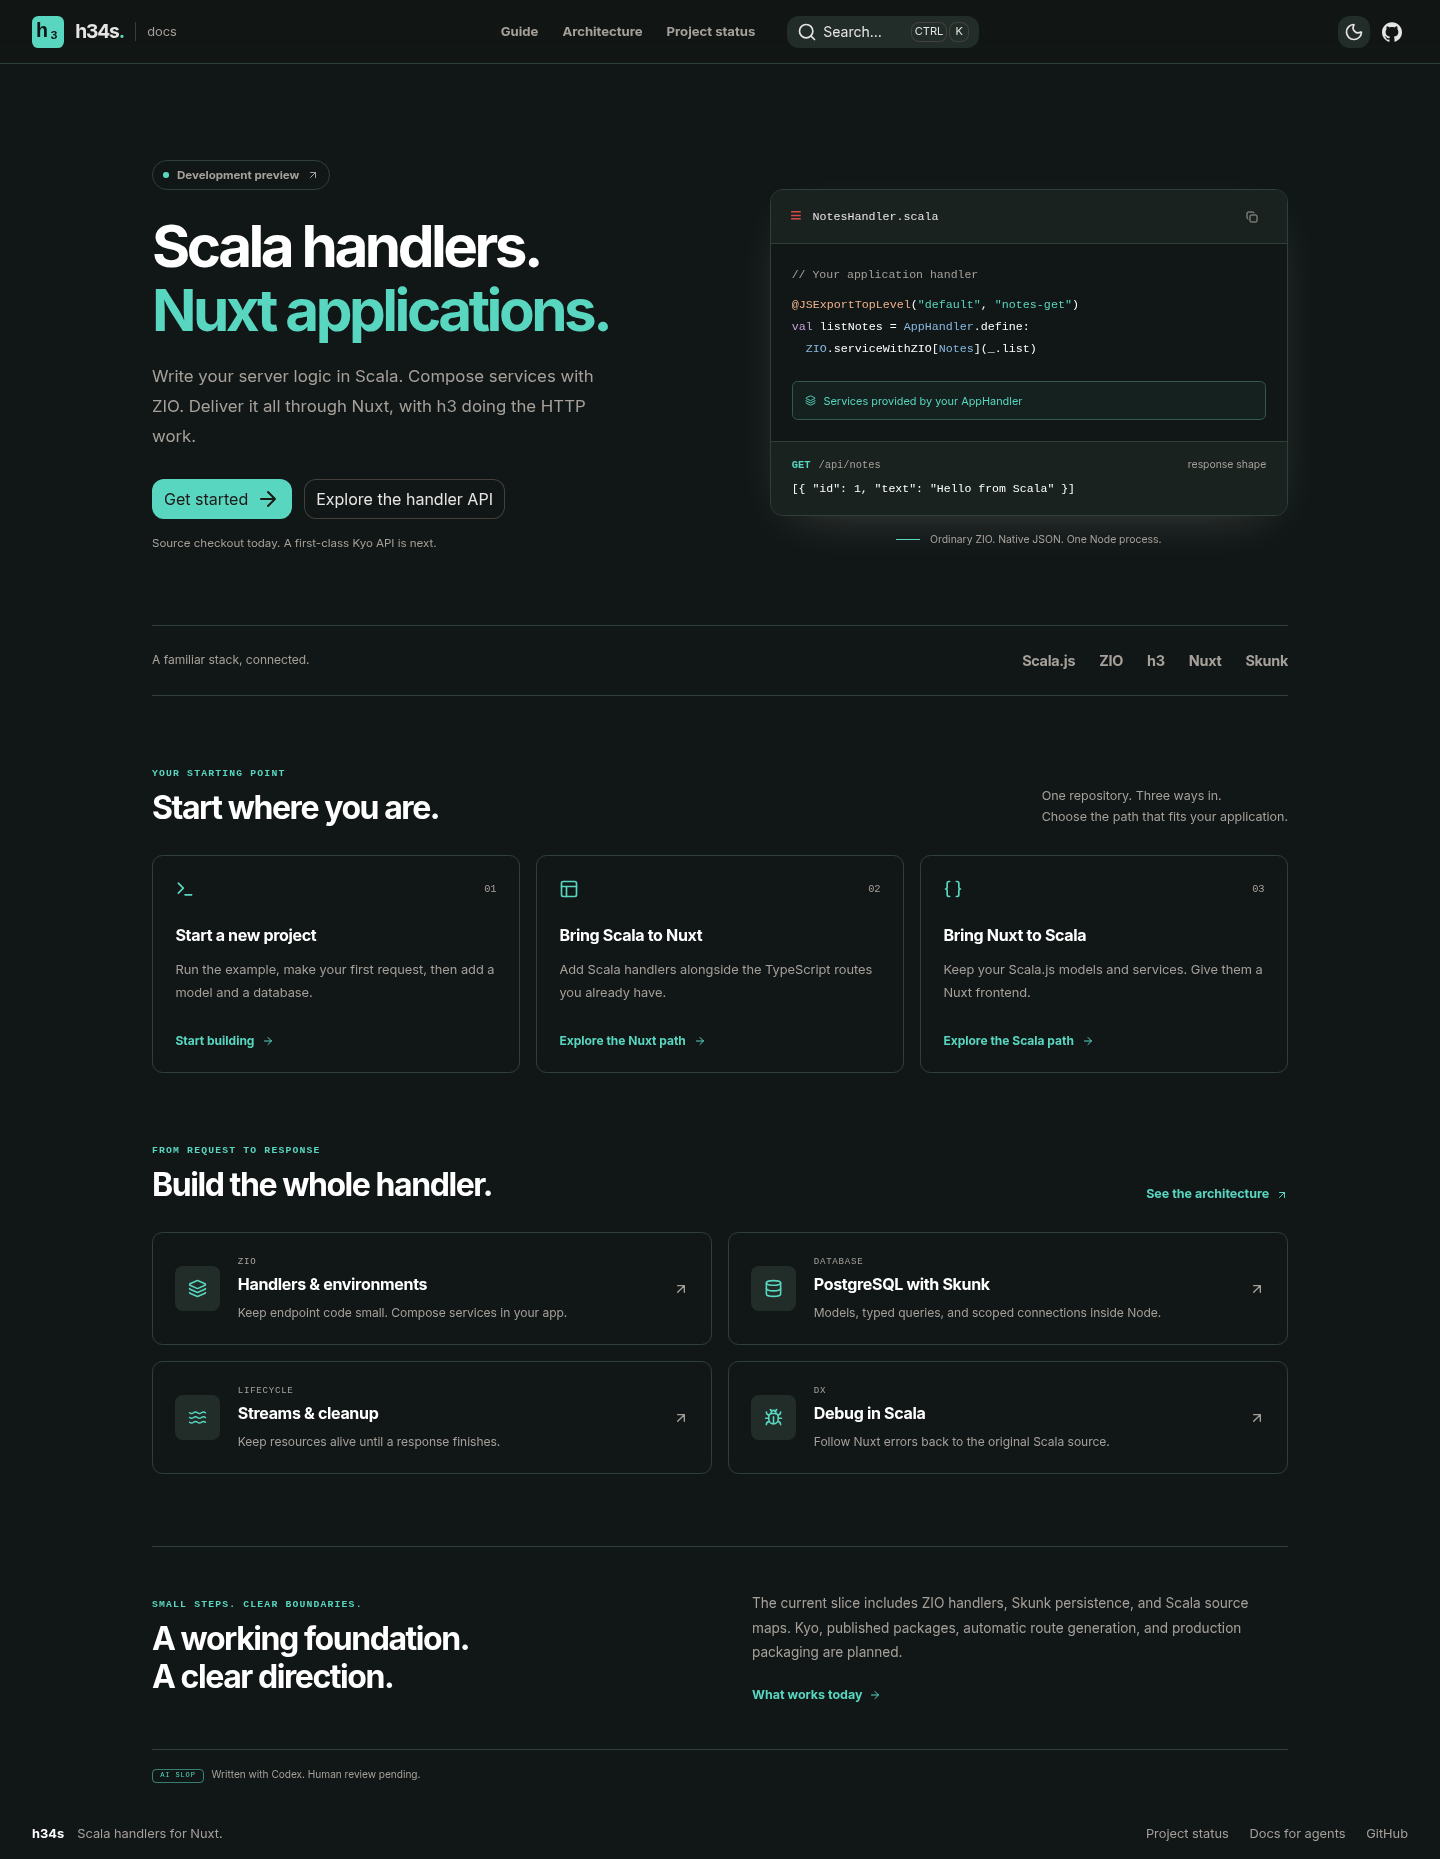
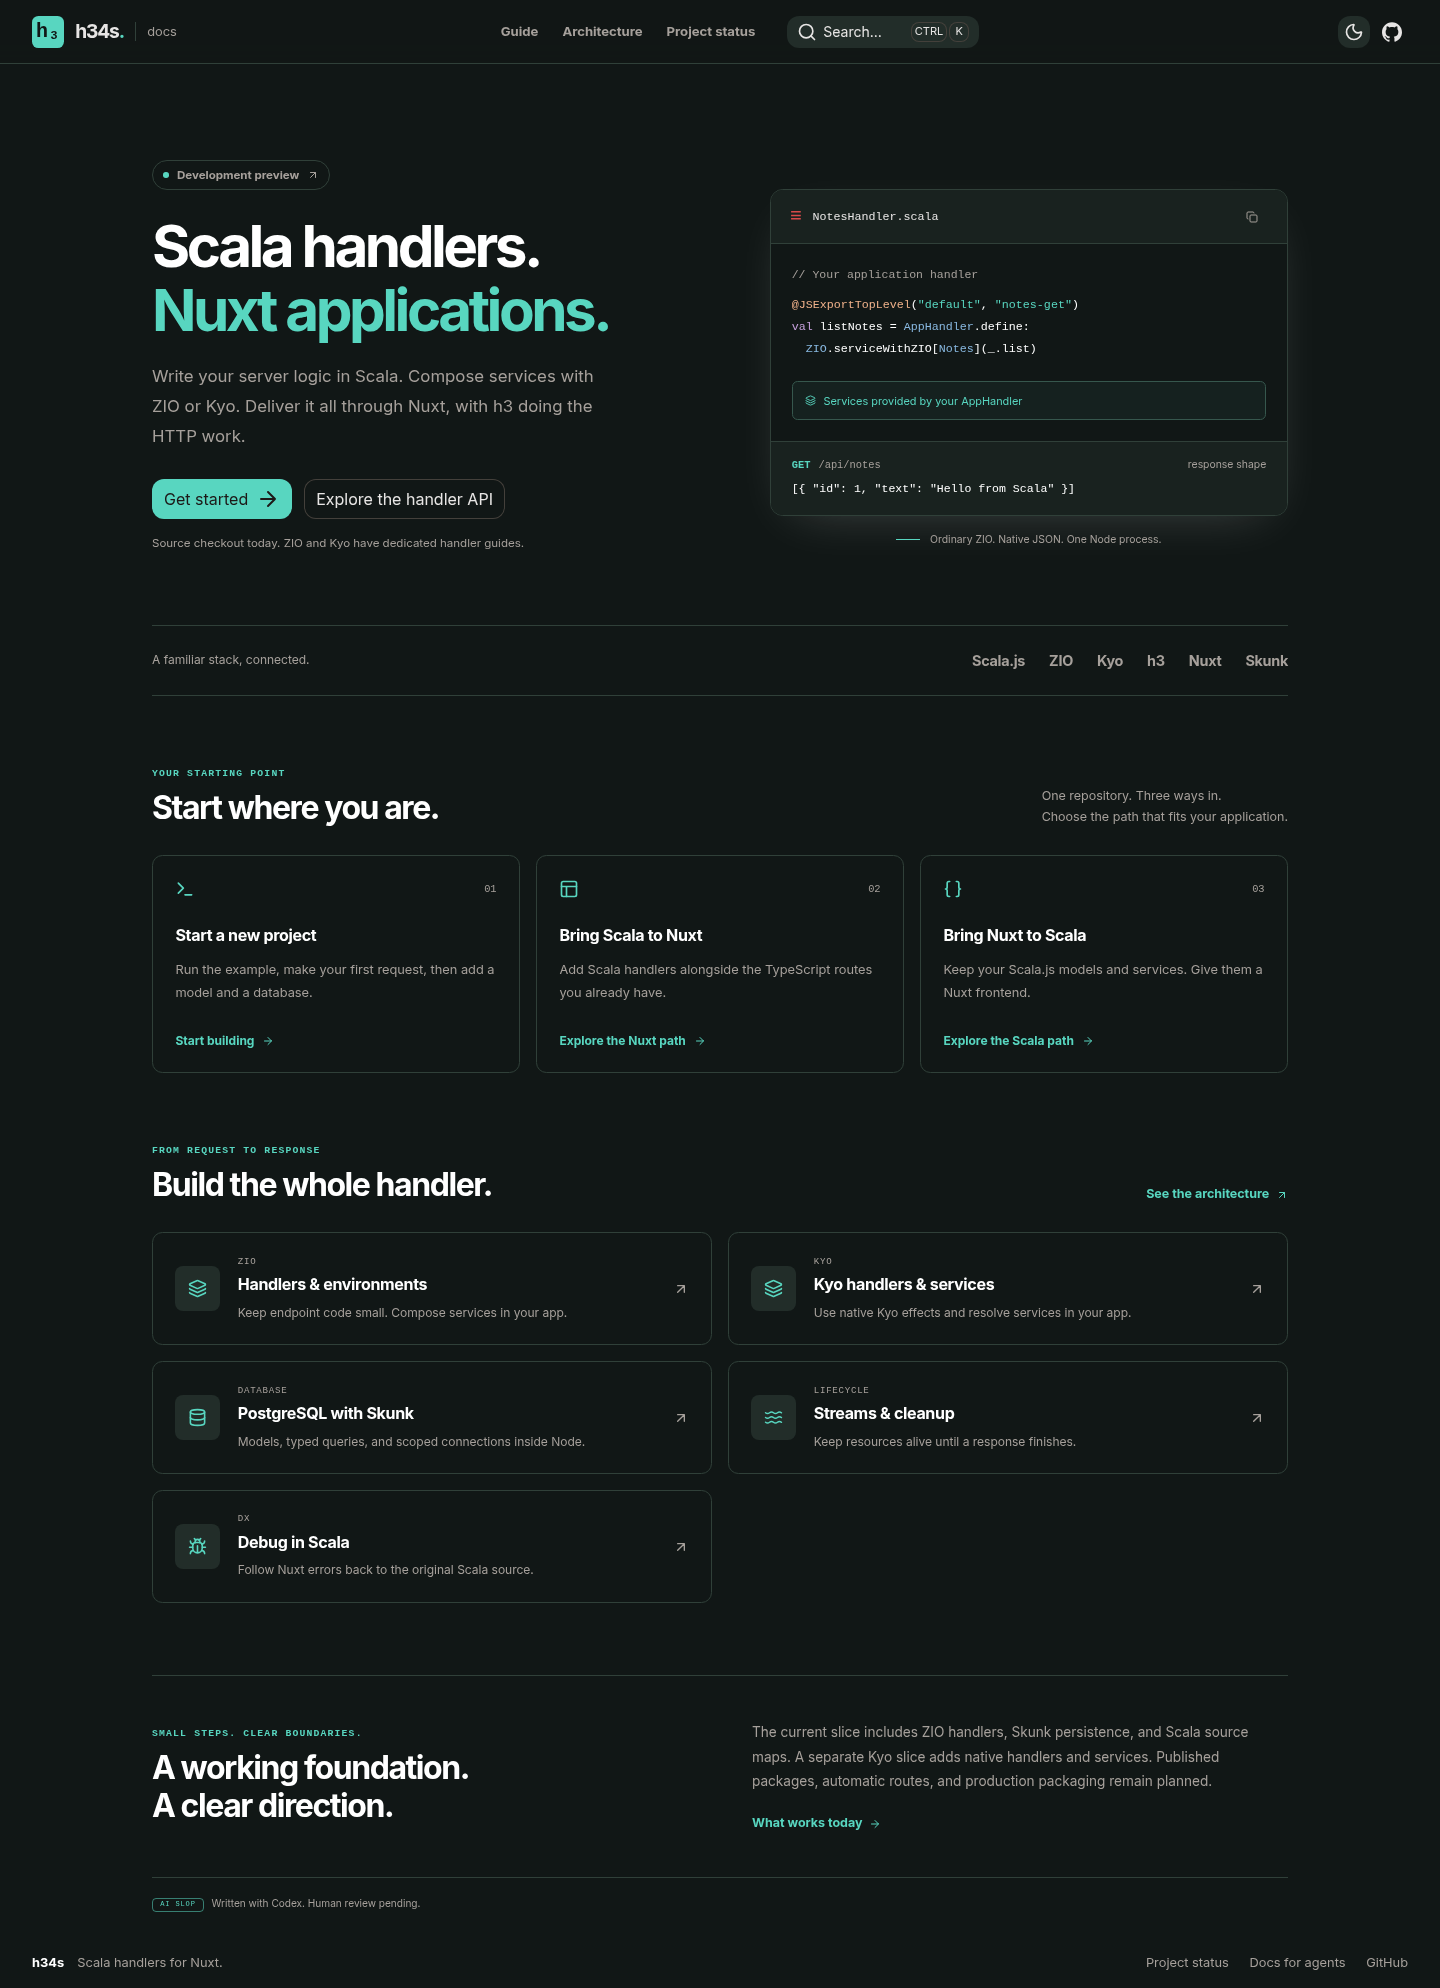
docs: record Kyo integration and browser verification

diff --git a/website/content/2.reference/3.compatibility.md b/website/content/2.reference/3.compatibility.md
@@ -16,7 +16,7 @@ itself establish compatibility.
 | -------------------------- | ------------------------------------------------------------------------------- | ---------------------- | ----------------------------------------------- |
 | `zio-dev-node24`           | Development example verified in the prepared checkout                           | Linux x86_64           | No pinned Nix toolchain or NixOS validation yet |
 | Optional ZIO Schema bridge | [Separate draft PR](https://github.com/yuri4n/h34s/pull/6); 55 Scala tests pass | Scala.js / Node target | Pending                                         |
-| `kyo-dev-node24`           | Separate [Kyo development slice](/guide/kyo); versions below                    | Linux x86_64           | Pending                                         |
+| `kyo-dev-node24`           | 17 Kyo tests and 31 ZIO regression tests; [details](/guide/kyo)                 | Linux x86_64           | Pending                                         |
 
 These are development profiles, not released support guarantees. There
 are no published h34s artifacts yet. Each row has its own scope of
@@ -49,7 +49,7 @@ extend the Scala application's compatibility matrix.
 
 ### kyo-dev-node24
 
-This profile belongs to the separate [`feat/kyo-handler-dx` branch](https://github.com/yuri4n/h34s/tree/feat/kyo-handler-dx). The Kyo library and example use their own Scala compiler setting; existing ZIO modules keep Scala 3.5.2.
+This profile belongs to the separate [Kyo draft PR #7](https://github.com/yuri4n/h34s/pull/7). The Kyo library and example use their own Scala compiler setting; existing ZIO modules keep Scala 3.5.2.
 
 | Component                   | Development combination                      |
 | --------------------------- | -------------------------------------------- |
@@ -60,11 +60,15 @@ This profile belongs to the separate [`feat/kyo-handler-dx` branch](https://gith
 | NativeConverter             | 0.9.0, with no mandatory Schema dependency   |
 | h3                          | Facades 1.15.4                               |
 | Node / pnpm                 | 24 / 10.34.4                                 |
-| Java / sbt                  | 25 / 1.11.7                                  |
+| Java / sbt                  | 25 (Temurin 25.0.4.1+1) / 1.11.7             |
 | Nuxt application            | 4.3.1 from the existing application lockfile |
 | Nix lock and package output | Not implemented                              |
 
+The greeting application uses built-in English/root locale formatting without currency metadata. It excludes Kyo’s full currency database at the application level to keep development bundling practical; the reusable library retains upstream locale support. See [locale data](/guide/kyo#choose-application-locale-data).
+
 The Kyo version, Scala compiler, and build JDK are selected together. RC7's compiler macros require Java 25 class files, even when the target is Scala.js. Use JDK 25 to run sbt for this profile. The separately verified ZIO-only profile above uses JDK 21; production remains Node in both cases.
+
+Evidence from the prepared Linux x86_64 checkout: 17 Kyo boundary and HTTP tests pass, including a real client abort that awaits cleanup; all 31 ZIO regression tests pass with the updated linker under both Java 21 and Java 25. Both examples compile and development-link under Java 25. Six source-map checks cover both configured output directories. Live Nuxt GET/POST Kyo requests pass alongside ZIO `/api/test`. Composed maps retain the original Scala application and boundary sources. Resolved classpaths contain no ZIO in Kyo and no Kyo in ZIO. Fresh-consumer CI and Nix validation remain pending.
 
 Do not assume that replacing the Kyo artifact with another release, or compiling it with the ZIO example's older compiler, is supported. This profile does not yet cover Kyo Schema, streaming, or database adapters. Native h3 bindings remain independent of both effect runtimes.
 

diff --git a/website/content/1.guide/7.kyo.md b/website/content/1.guide/7.kyo.md
@@ -7,7 +7,7 @@ description: Write native Kyo handlers and resolve application services with Env
 
 `KHandler.define` turns a Kyo program into an h3 handler. It supplies request context, runs the program on Kyo's runtime, owns the request scope, and converts the result with `NativeConverter`. Your application supplies its own services through `Env`.
 
-The implementation lives on the separate [`feat/kyo-handler-dx` branch](https://github.com/yuri4n/h34s/tree/feat/kyo-handler-dx). It is not merged into this documentation branch. This first slice covers ordinary response values, application services, safe errors, and request cleanup. Kyo streaming, Schema, and database adapters remain separate work.
+The implementation lives on the separate [Kyo draft PR #7](https://github.com/yuri4n/h34s/pull/7). It is not merged into this documentation branch. This first slice covers ordinary response values, application services, safe errors, and request cleanup. Kyo streaming, Schema, and database adapters remain separate work.
 
 ## Run the example
 
@@ -33,6 +33,12 @@ curl --fail http://127.0.0.1:3000/api/kyo/greeting \
 The GET returns `{"message":"Hello, Kyo!"}`. The POST returns `{"message":"Hello, Scala!"}`. Neither route needs a database.
 
 For continuous linking, run `sbt '~kyoExample/fastLinkJS'` in a separate terminal. Wait for linking and Nitro rebuilding before repeating a request.
+
+## Choose application locale data
+
+Kyo RC7 includes a full international currency database. Its generated data adds roughly 40 MB to development JavaScript. The greeting application's `kyoExample` project excludes `locales-full-currencies-db_sjs1_3` and uses scala-java-locales' supported built-in English/root formatting fallback, without currency metadata.
+
+This is application build policy. The reusable `kyoH3Ext` module keeps Kyo's upstream dependencies; applications that need international locale or currency data can retain the full database or choose a custom one through scala-java-locales. Unicode request and response values remain supported.
 
 ## Keep endpoint code small
 
@@ -152,3 +158,5 @@ sbt 'kyoH3Ext/test' 'kyoExample/fastLinkJS'
 ```
 
 See [status](/reference/status) for the checks performed and [compatibility](/reference/compatibility#kyo-dev-node24) for the selected versions. This is a source development slice with no published artifact or production packaging guarantee.
+
+The prepared Linux x86_64 checkout passes 17 Kyo tests, including real HTTP decoding and client cancellation with awaited cleanup. The shared linker also passes all 31 existing ZIO tests, and both applications compile and development-link under Java 25. Live Nuxt GET/POST smoke checks pass for the Kyo routes, alongside the existing ZIO `/api/test` route. See the [compatibility profile](/reference/compatibility#kyo-dev-node24) for the exact versions and remaining validation boundaries.

diff --git a/website/content/2.reference/2.status.md b/website/content/2.reference/2.status.md
@@ -23,7 +23,7 @@ The [guides](/guide/getting-started) describe these paths using the existing app
 
 ## Kyo implementation in a separate branch
 
-The [`feat/kyo-handler-dx` branch](https://github.com/yuri4n/h34s/tree/feat/kyo-handler-dx) adds a native Kyo integration. Its code is separate from this documentation branch; follow the [Kyo guide](/guide/kyo) to use that source checkout.
+The [Kyo draft PR #7](https://github.com/yuri4n/h34s/pull/7) adds a native Kyo integration. Its code is separate from this documentation branch; follow the [Kyo guide](/guide/kyo) to use that source checkout.
 
 | Capability                  | Current scope                                                                   |
 | --------------------------- | ------------------------------------------------------------------------------- |
@@ -33,6 +33,8 @@ The [`feat/kyo-handler-dx` branch](https://github.com/yuri4n/h34s/tree/feat/kyo-
 | Errors and development mode | Explicit safe failures, opaque production errors, and the Nuxt development flag |
 | Cancellation                | Node response close interrupts request work and awaits scope cleanup            |
 | Runnable example            | Database-free GET/POST greeting routes with independent Scala.js output         |
+
+The Kyo suite passes 17 tests, including three real HTTP tests for JSON request/response conversion, converter defects in production/development, and client-abort cleanup. All 31 existing ZIO tests also pass with the shared linker update, and both examples compile and link under Java 25. Live Nuxt GET/POST smoke checks pass for native Kyo models and service provisioning while ZIO `/api/test` still returns `abc`. These are prepared-checkout results; they do not establish fresh-consumer CI or release support.
 
 This slice does not add Kyo streaming, Schema, Skunk integration, or a ZIO-to-Kyo runtime bridge. Kyo RC7 logs and swallows `Scope.ensure` finalizer failures; callers must not rely on those failures changing an HTTP response. See the [Kyo lifecycle guidance](/guide/kyo#keep-resource-ownership-explicit).
 

diff --git a/website/review/README.md b/website/review/README.md
@@ -1,0 +1,37 @@
+# Documentation browser review
+
+AI-assisted review. Human review pending.
+
+Checked on 2026-10-15 in the prepared Linux x86_64 environment with
+Chromium 154.0.8037.57 against the production Node server build. Desktop
+checks used a 1440 × 1000 viewport; mobile checks used 390 × 844.
+
+## Screenshots
+
+- [Desktop homepage](desktop.png): ZIO and Kyo entry points in the shared design.
+- [Mobile homepage](mobile.png): stacked adoption paths and handler guides.
+- [Dark homepage](dark.png): the same content in the dark theme.
+- [Kyo guide](kyo.png): navigation, highlighted Scala examples, services, and lifecycle guidance.
+
+The screenshots capture full pages. Homepage screenshots use a fresh page
+state after the interaction checks.
+
+## Checks passed
+
+- All 11 content routes returned HTTP 200 with one primary heading and no
+  document-level horizontal overflow at the desktop viewport.
+- The homepage Kyo card, desktop sidebar, and mobile menu opened the Kyo
+  guide. Its code examples and JDK 25 prerequisite rendered correctly.
+- The mobile homepage and Kyo guide stayed within the viewport.
+- The keyboard skip link moved focus to the main content. Copying the
+  homepage handler populated the clipboard and announced success.
+- Search found both Skunk and Kyo documentation. Dark mode survived a
+  reload, and switching back to light mode worked.
+- Scala code used multiple syntax colors. No browser page errors or
+  hydration warnings were observed.
+- The agent documentation endpoints and raw ZIO/Kyo Markdown returned
+  content. An unknown route returned 404. The AI assistant stayed disabled.
+
+Cross-browser and screen-reader checks remain unverified. The requested
+`better-ui` skill was unavailable in this environment; this review used
+the existing shared layer conventions and direct browser checks.

diff --git a/website/content/1.guide/1.getting-started.md b/website/content/1.guide/1.getting-started.md
@@ -45,7 +45,7 @@ Start Nuxt after linking finishes:
 NODE_OPTIONS=--max-old-space-size=8192 pnpm dev
 ```
 
-The unoptimized example currently needs an 8 GB Node heap during Nitro bundling. Allow enough machine memory for that process and sbt's 4 GB heap, or finish linking before starting Nuxt.
+The development-linked example currently needs an 8 GB Node heap during Nitro bundling. Allow enough machine memory for that process and sbt's 4 GB heap, or finish linking before starting Nuxt.
 
 ## Make the first request
 
